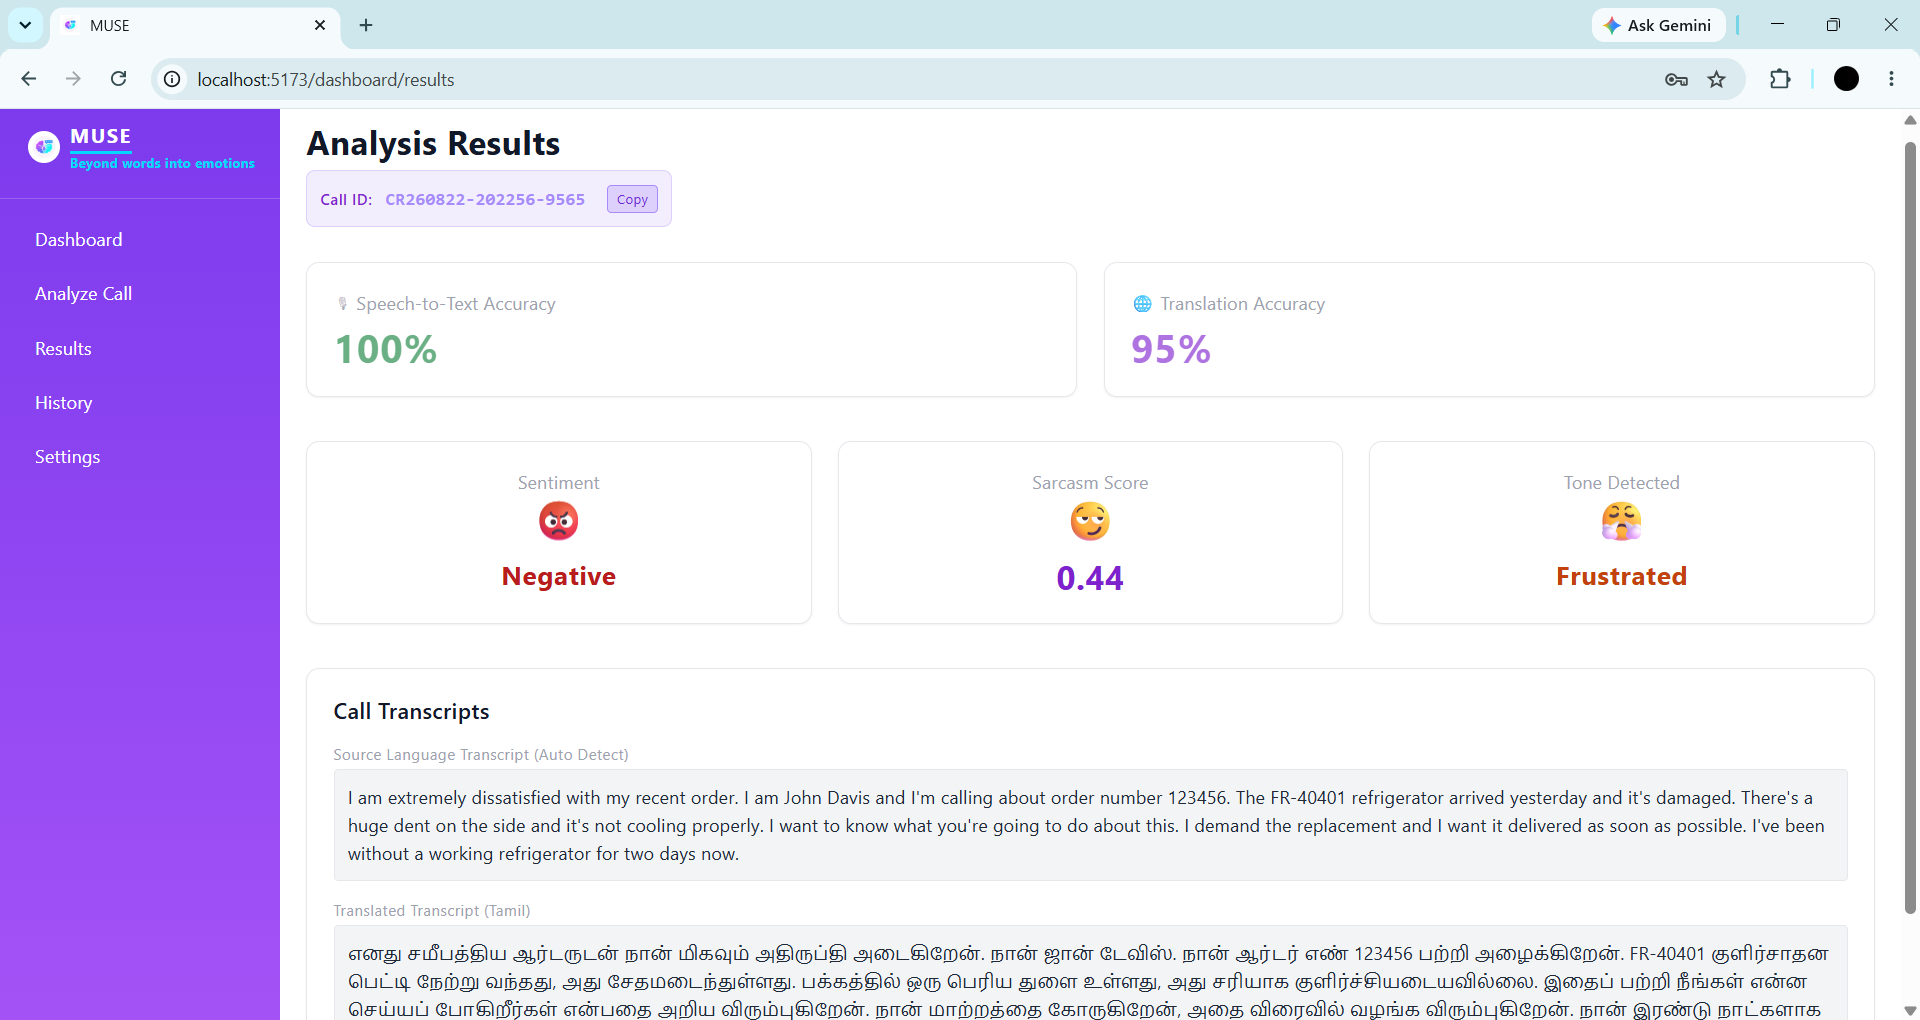
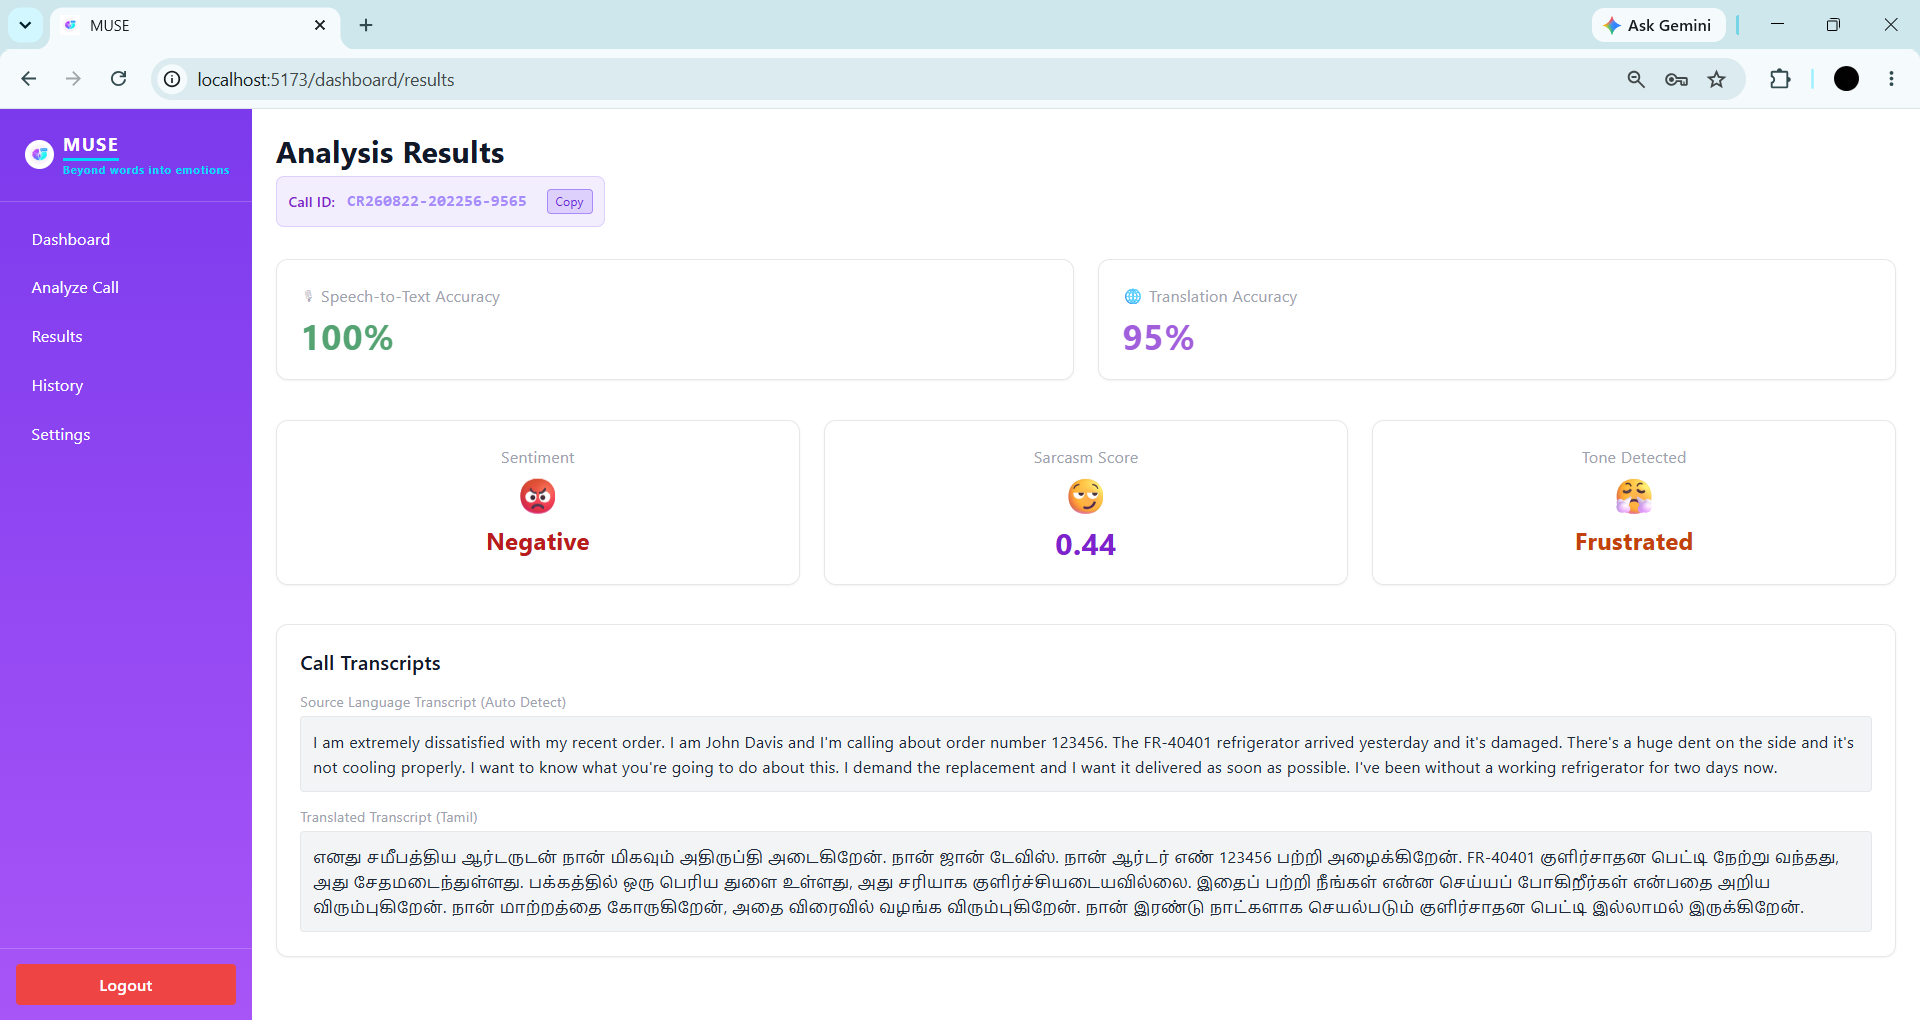
Add project screenshots

diff --git a/index.html b/index.html
@@ -203,11 +203,15 @@ img{max-width:100%;display:block}
 }
 .pj article:hover{border-color:var(--line)}
 .pj .visual{
-  height:150px;position:relative;overflow:hidden;border-bottom:1px solid var(--line-soft);
+  height:200px;position:relative;overflow:hidden;border-bottom:1px solid var(--line-soft);
   background:var(--panel-2);display:flex;align-items:center;justify-content:center;
 }
-.pj .visual img{width:100%;height:100%;object-fit:cover;object-position:top center}
-.pj .visual img{width:100%;height:100%;object-fit:cover}
+.pj .visual img{width:100%;height:100%;object-fit:cover;object-position:center 38%}
+.pj .visual.shot{display:block;overflow-y:auto;scrollbar-width:thin;scrollbar-color:var(--line) transparent}
+.pj .visual.shot img{height:auto;object-fit:unset}
+.pj .visual.shot::-webkit-scrollbar{width:8px}
+.pj .visual.shot::-webkit-scrollbar-thumb{background:var(--line);border-radius:8px}
+.pj .visual.shot::-webkit-scrollbar-track{background:transparent}
 .pj .bars{display:flex;align-items:flex-end;gap:3px;height:64%;opacity:.72}
 .pj .bars span{width:5px;border-radius:2px;background:var(--cool)}
 .pj article:nth-child(2) .bars span{background:var(--signal)}
@@ -470,12 +474,12 @@ footer .wrap{display:flex;flex-wrap:wrap;gap:10px 20px;justify-content:space-bet
     <div class="pj">
 
       <article class="rv" data-pj>
-        <div class="visual">
+                <div class="visual shot">
           <!-- To use a screenshot instead of the generated bars, put the image in an
                images/ folder next to this file and replace the div below with:
                <img src="images/muse.png" alt="MUSE analysis screen"> -->
-                    <img src="images/muse.png" alt="MUSE analysis results — sentiment, sarcasm score, tone, and Tamil translation">
-        </div>
+          <img src="images/muse.png" alt="MUSE analysis results — sentiment, sarcasm score, tone, and Tamil translation">
+          </div>
         <div class="inner">
           <div class="topline">
             <span class="kind">Machine learning &middot; Full-stack</span>
@@ -527,8 +531,8 @@ footer .wrap{display:flex;flex-wrap:wrap;gap:10px 20px;justify-content:space-bet
       </article>
 
       <article class="rv" data-pj>
-        <div class="visual">
-          <div class="bars" data-bars="34"></div>
+        <div class="visual shot">
+          <img src="images/envirotrack.png" alt="EnviroTrack dashboard — live sensor readings, multi-sensor graph, and anomaly predictions">
         </div>
         <div class="inner">
           <div class="topline">
